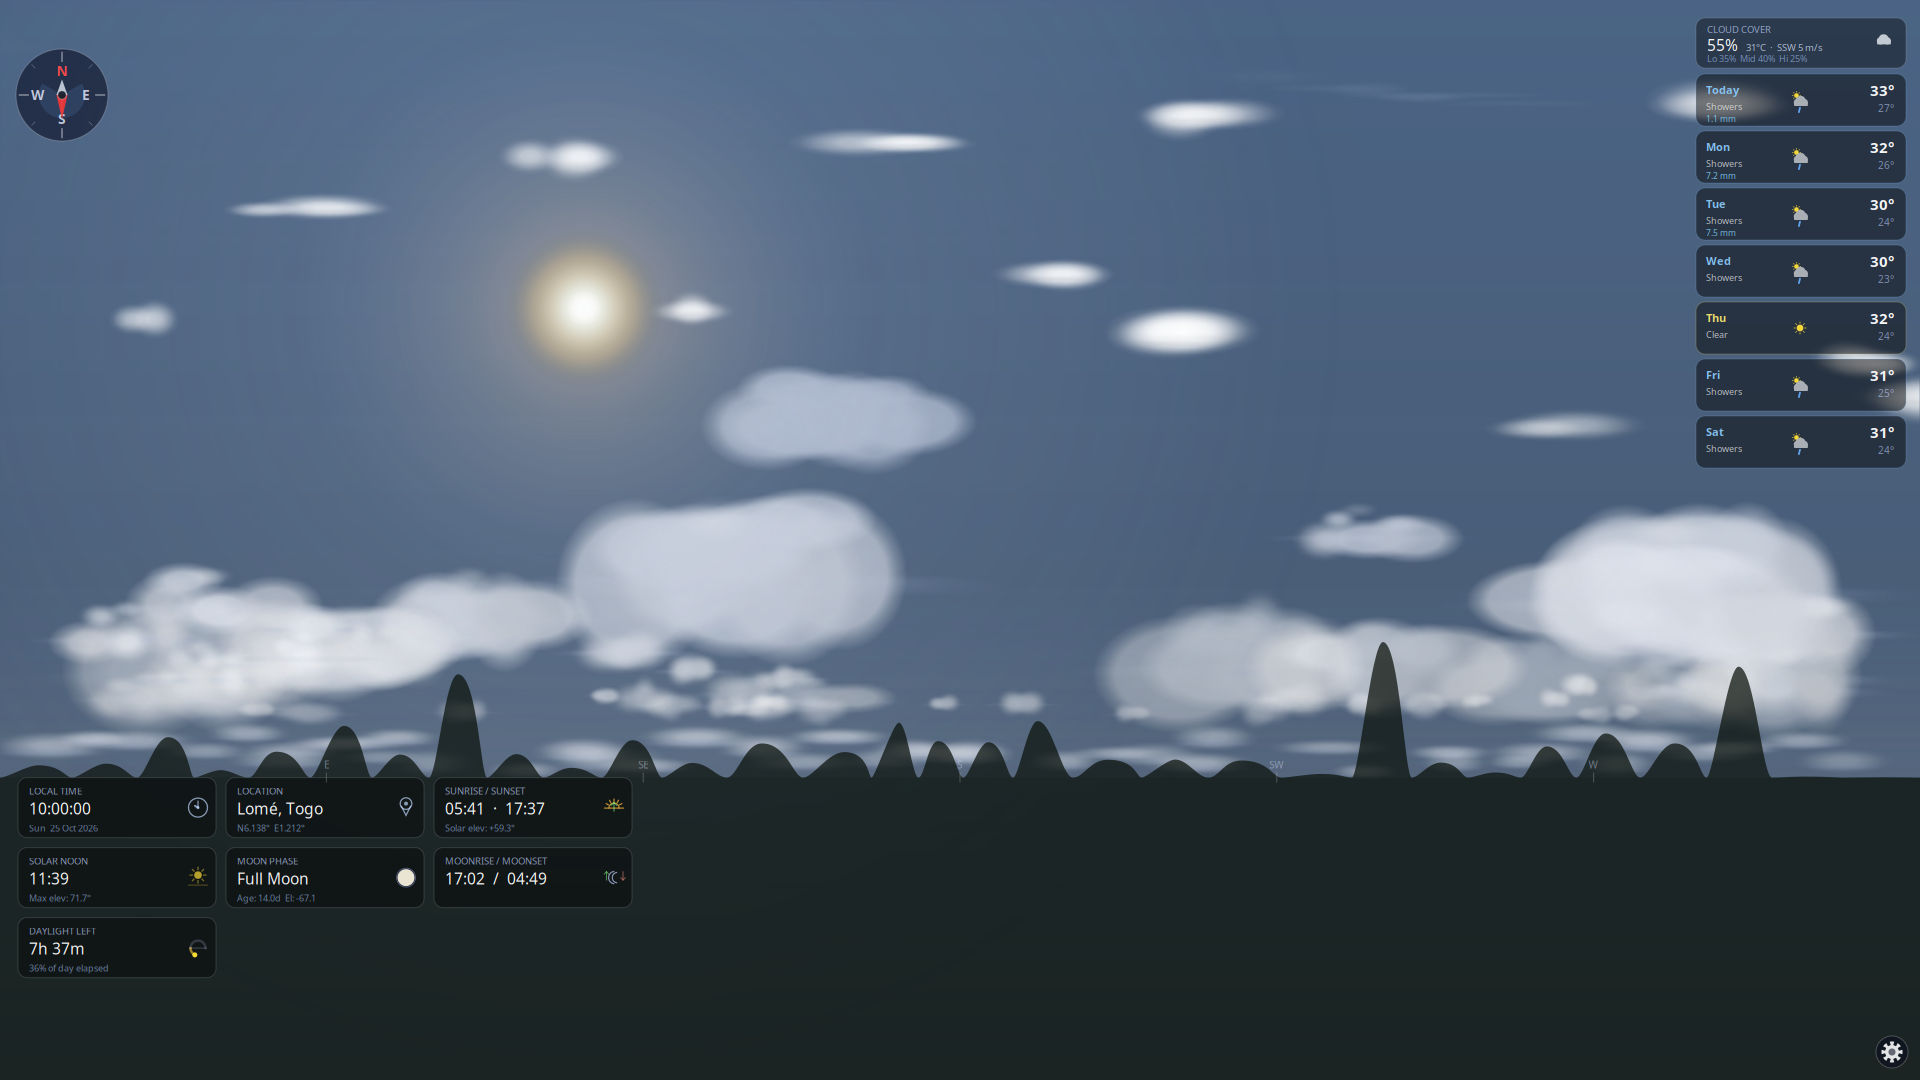
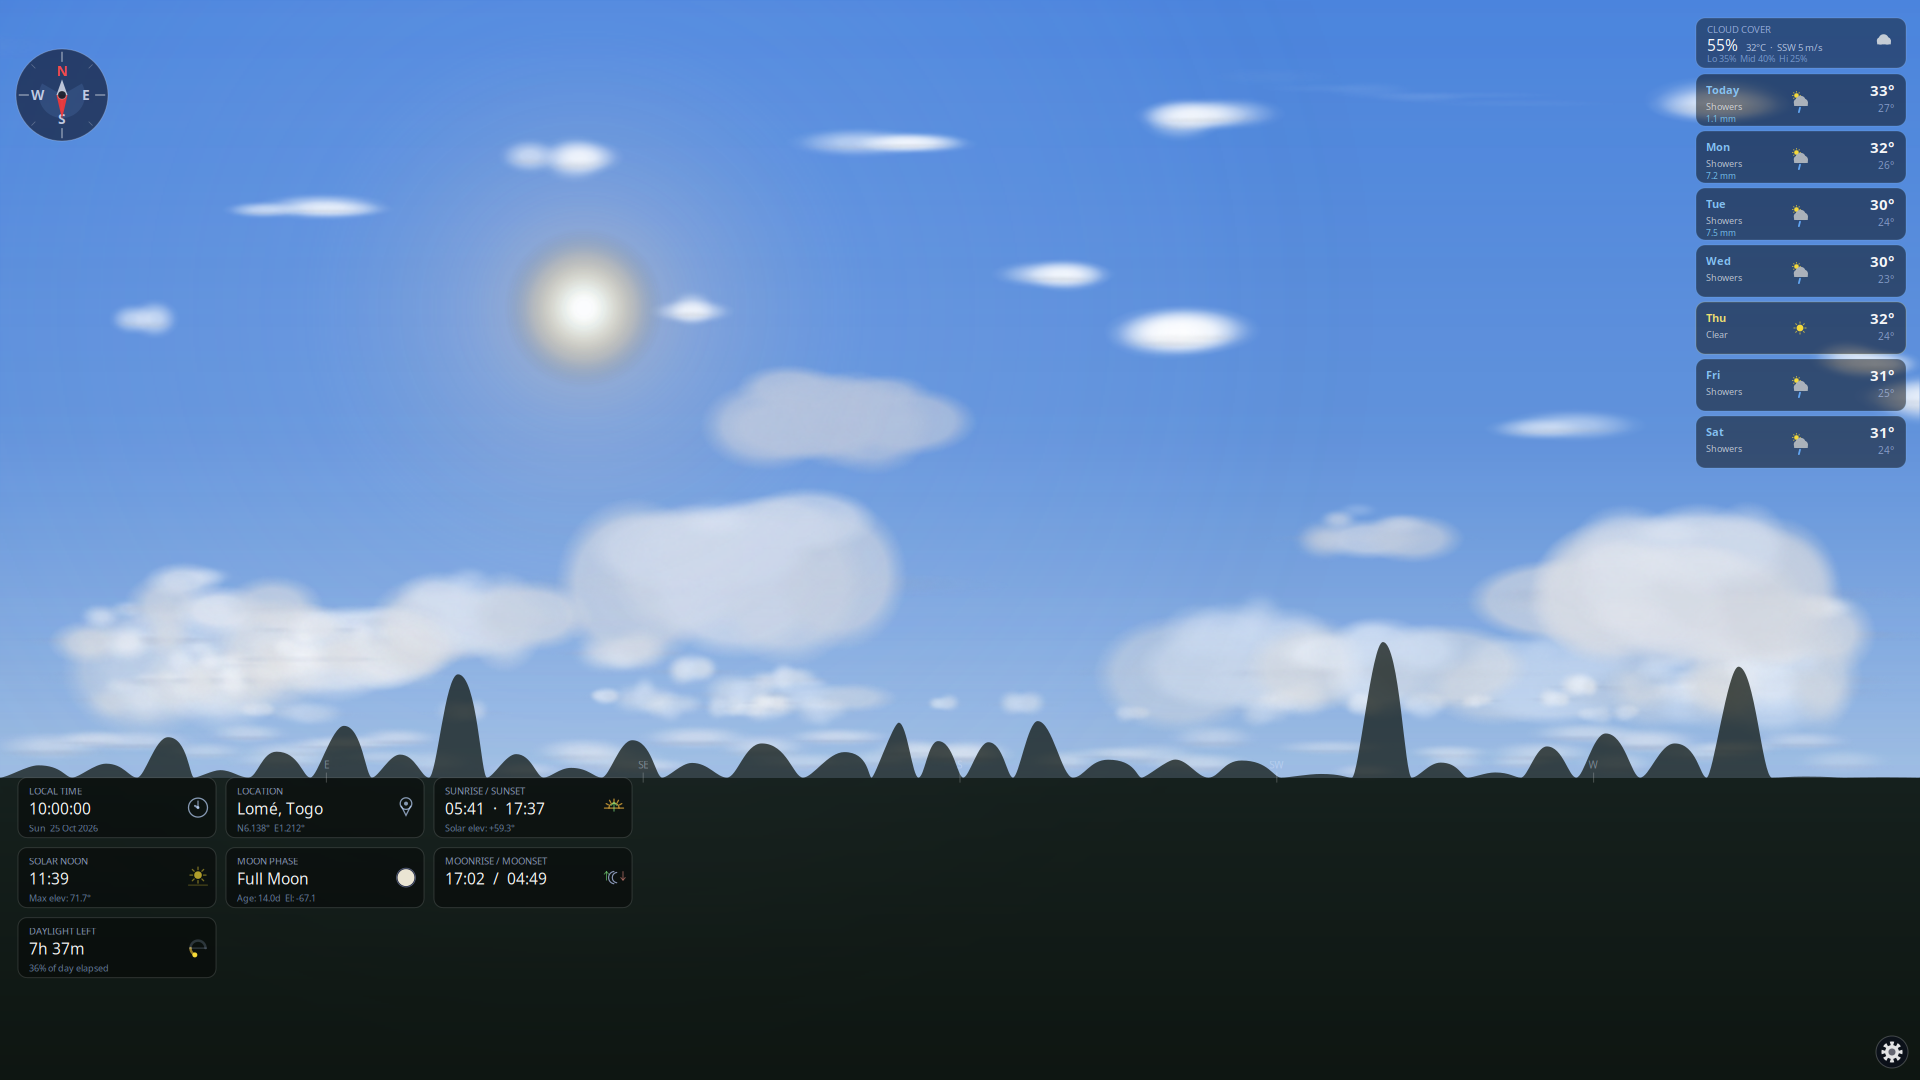
release 1.3.0: version bump, changelog, metainfo, new day/sunset screenshots

diff --git a/caelum/__init__.py b/caelum/__init__.py
@@ -1,3 +1,3 @@
 """Caelum — live sky overlay: sun, moon, planets, stars and weather for your location."""
 
-__version__ = '1.2.0'
+__version__ = '1.3.0'

diff --git a/JOURNAL.md b/JOURNAL.md
@@ -970,3 +970,12 @@ thick low cloud: 80% cirrus alone left the sun at ~33% and greyed the sky with t
   and when Caelum isn't running. The existing export ("Desktop background") already sets the wallpaper
   to Caelum's own sky every 5 min, and with the opaque sky it now has a proper day sky. A static image
   would be wrong for most of the day. README points to the export instead.
+
+### Release 1.3.0 (2026-10-25)
+- Contents: version in Settings + `--version`; weather refresh after suspend; click-through; explore
+  mode; opaque sky (on by default; export always opaque).
+- Version bump: `__init__.py`, `debian/changelog` 1.3.0-1, metainfo release notes, and screenshots pinned
+  to `v1.3.0`. `appstreamcli validate` passes.
+- Screenshots: `day.png` and `sunset.png` re-rendered with the opaque sky over the real forecast (scratch
+  `shots.py`, which now also takes a night shot). `night.png` kept: the new 21:00 full-moon render was
+  washed out, and the old 02:30 dark sky looks the same with the opaque sky. `settings.png` kept.
